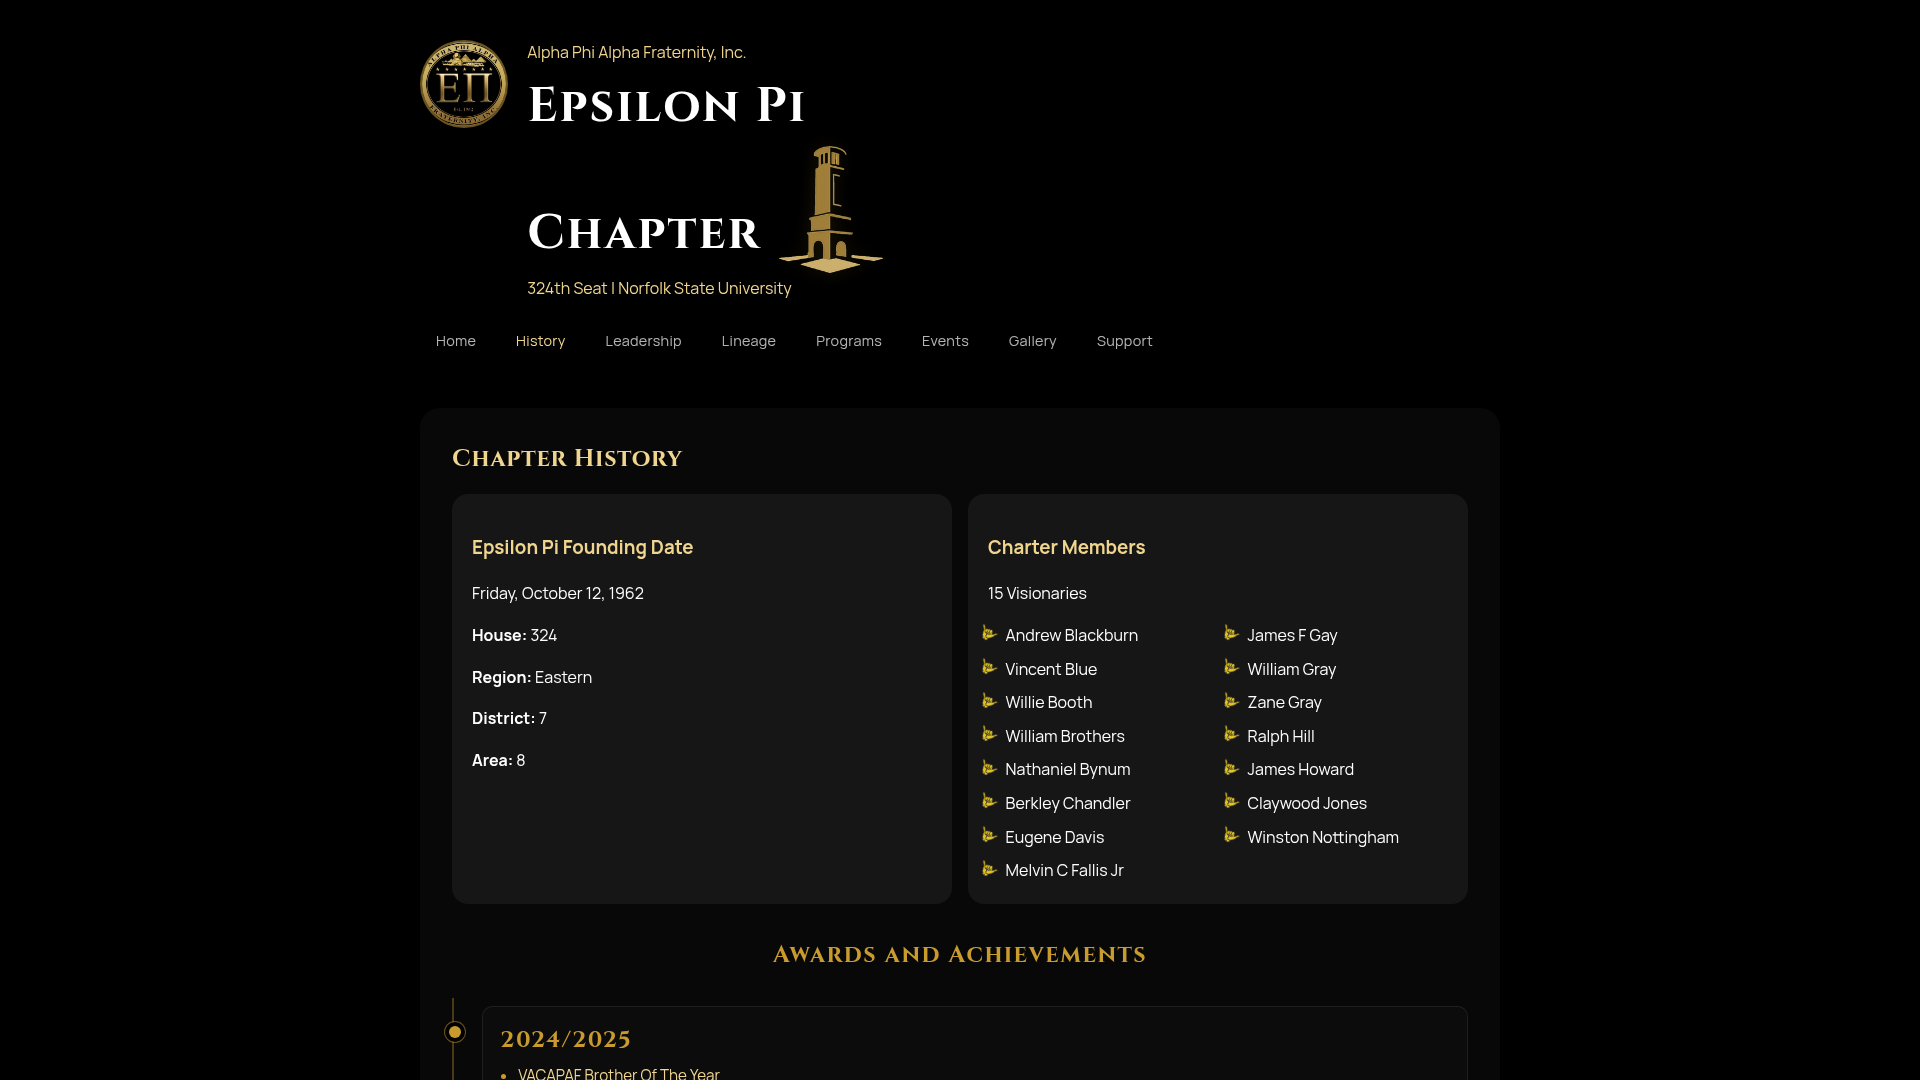
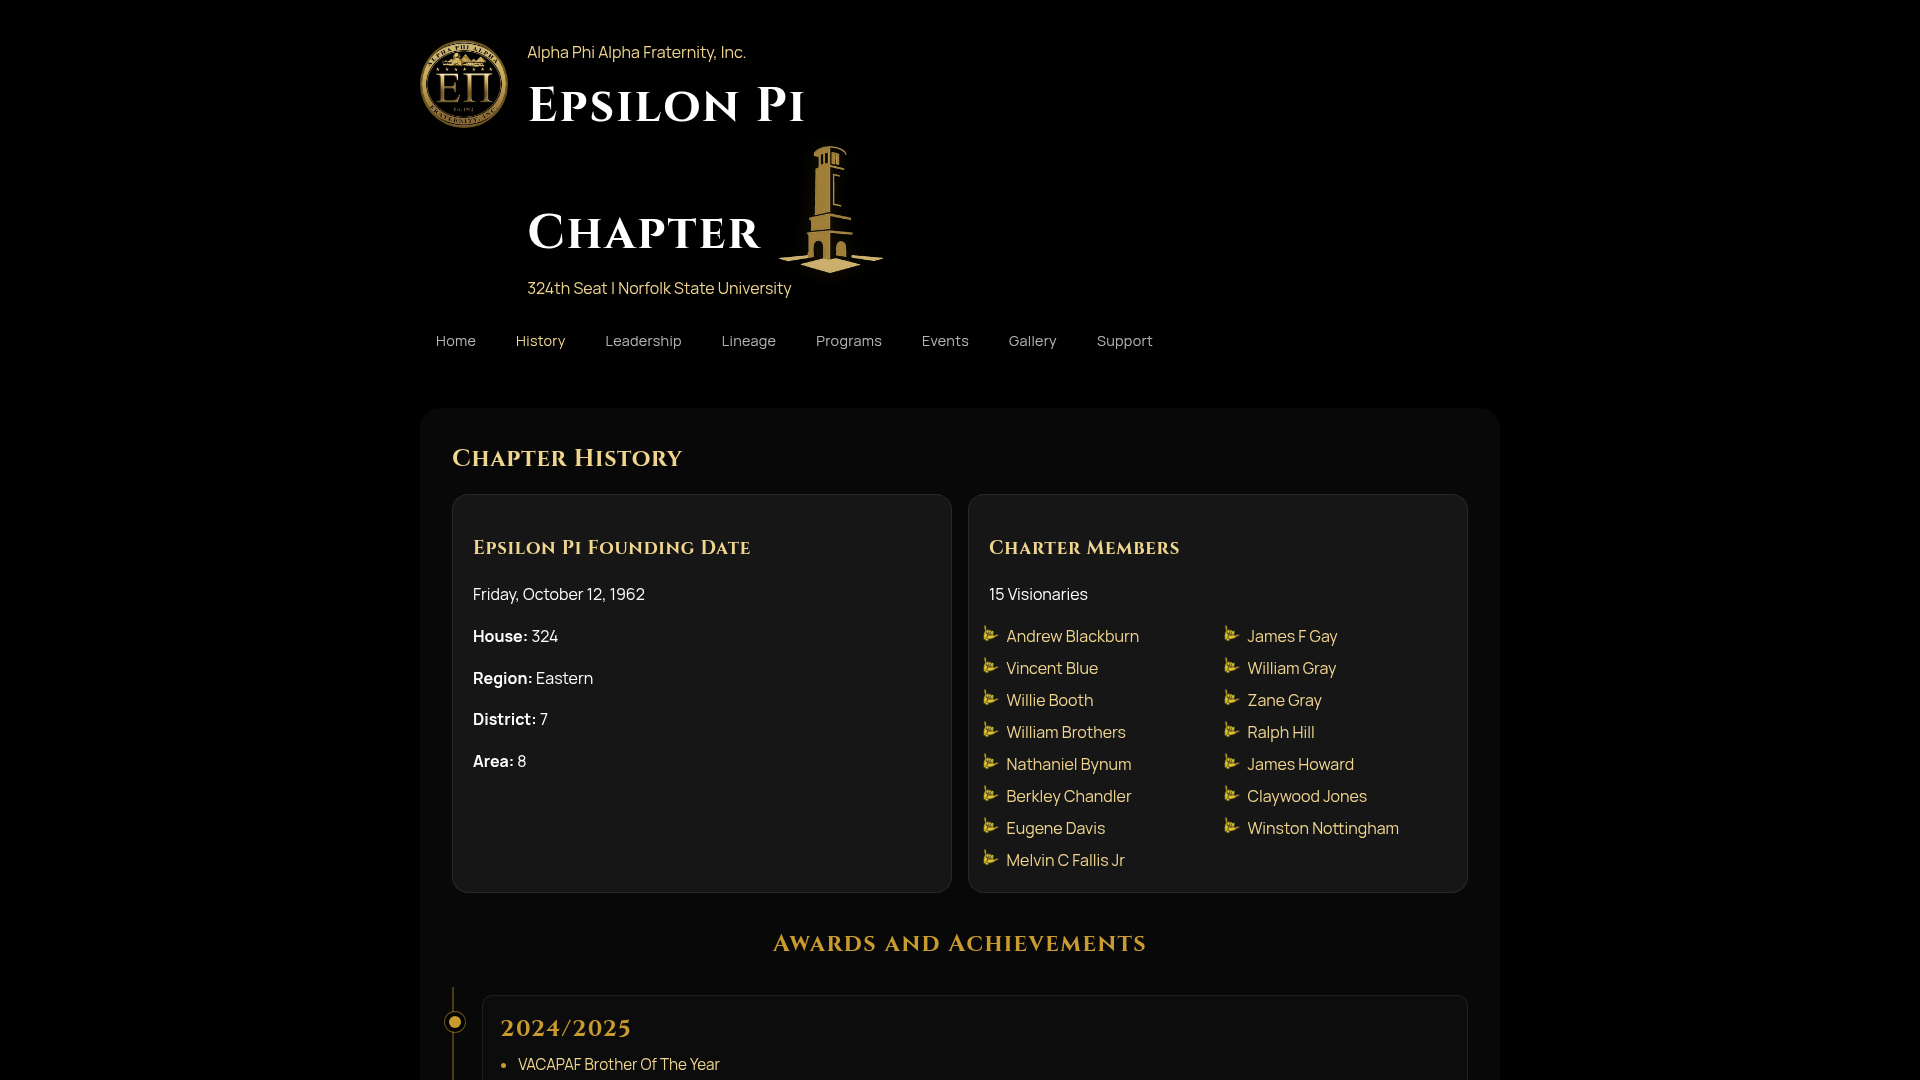
Update website styling and layout for improved aesthetics and user experience
Refactor rendering logic to stack leadership entries vertically and apply sitewide gold/Cinzel styling updates to panels, cards, and lists across the site.

Replit-Commit-Author: Agent
Replit-Commit-Session-Id: 670d8a79-09bd-4af7-afe4-ec24c2c49d7e
Replit-Commit-Checkpoint-Type: full_checkpoint
Replit-Commit-Event-Id: b078b73b-17cf-4732-8554-4374d86cd63f
Replit-Commit-Screenshot-Url: https://storage.googleapis.com/screenshot-production-us-central1/4bf550e2-7ef4-4f40-acb3-dbf2aed1e6a8/670d8a79-09bd-4af7-afe4-ec24c2c49d7e/726sfi8
Replit-Helium-Checkpoint-Created: true

diff --git a/epsilon-pi-site/styles.css b/epsilon-pi-site/styles.css
@@ -162,11 +162,16 @@ main {
 }
 
 .panel ul {
-  color: var(--text);
+  color: var(--gold-soft);
 }
 
 .panel ul li {
   margin-bottom: 0.5rem;
+  line-height: 1.5;
+}
+
+.panel ul li::marker {
+  color: var(--gold);
 }
 
 .photo-placeholder {
@@ -210,12 +215,15 @@ main {
 
 .card {
   background: var(--panel-alt);
+  border: 1px solid var(--line);
   border-radius: 1rem;
   padding: 1.25rem;
 }
 
 .card h3 {
   color: var(--gold-soft);
+  font-family: "Cinzel", Georgia, serif;
+  letter-spacing: 0.04em;
 }
 
 .card p {
@@ -461,8 +469,11 @@ main {
 
 .leadership-year {
   margin: 0 0 1.5rem;
-  font-size: 1rem;
-  color: var(--muted);
+  font-size: 0.95rem;
+  color: var(--gold-soft);
+  font-style: italic;
+  letter-spacing: 0.02em;
+  opacity: 0.9;
 }
 
 .officer-cards {
@@ -1903,10 +1914,16 @@ main {
 }
 
 .achievement-leadership {
+  margin: 0 0 0.65rem 0;
+  display: flex;
+  flex-direction: column;
+  gap: 0.2rem;
+}
+
+.achievement-leader {
   font-style: italic;
   color: var(--gold-soft);
   font-size: 0.85rem;
-  margin: 0 0 0.65rem 0;
   opacity: 0.9;
   line-height: 1.4;
 }
@@ -1918,11 +1935,7 @@ main {
   font-size: 0.72rem;
   font-weight: 600;
   font-style: normal;
-}
-
-.achievement-leader-sep {
-  color: var(--muted);
-  margin: 0 0.2rem;
+  margin-right: 0.25rem;
 }
 
 .achievement-list {

diff --git a/epsilon-pi-site/script.js b/epsilon-pi-site/script.js
@@ -1153,9 +1153,9 @@ function renderAchievements() {
   container.innerHTML = achievementsData
     .map((entry) => {
       const leadershipHtml = entry.leadership && entry.leadership.length
-        ? `<p class="achievement-leadership">${entry.leadership
-            .map((l) => `<span class="achievement-leader-role">${l.role}:</span> <span class="achievement-leader-name">${l.name}</span>`)
-            .join(' <span class="achievement-leader-sep">·</span> ')}</p>`
+        ? `<div class="achievement-leadership">${entry.leadership
+            .map((l) => `<div class="achievement-leader"><span class="achievement-leader-role">${l.role}:</span> <span class="achievement-leader-name">${l.name}</span></div>`)
+            .join("")}</div>`
         : "";
       const awardsHtml = entry.awards
         .map((award) => {
